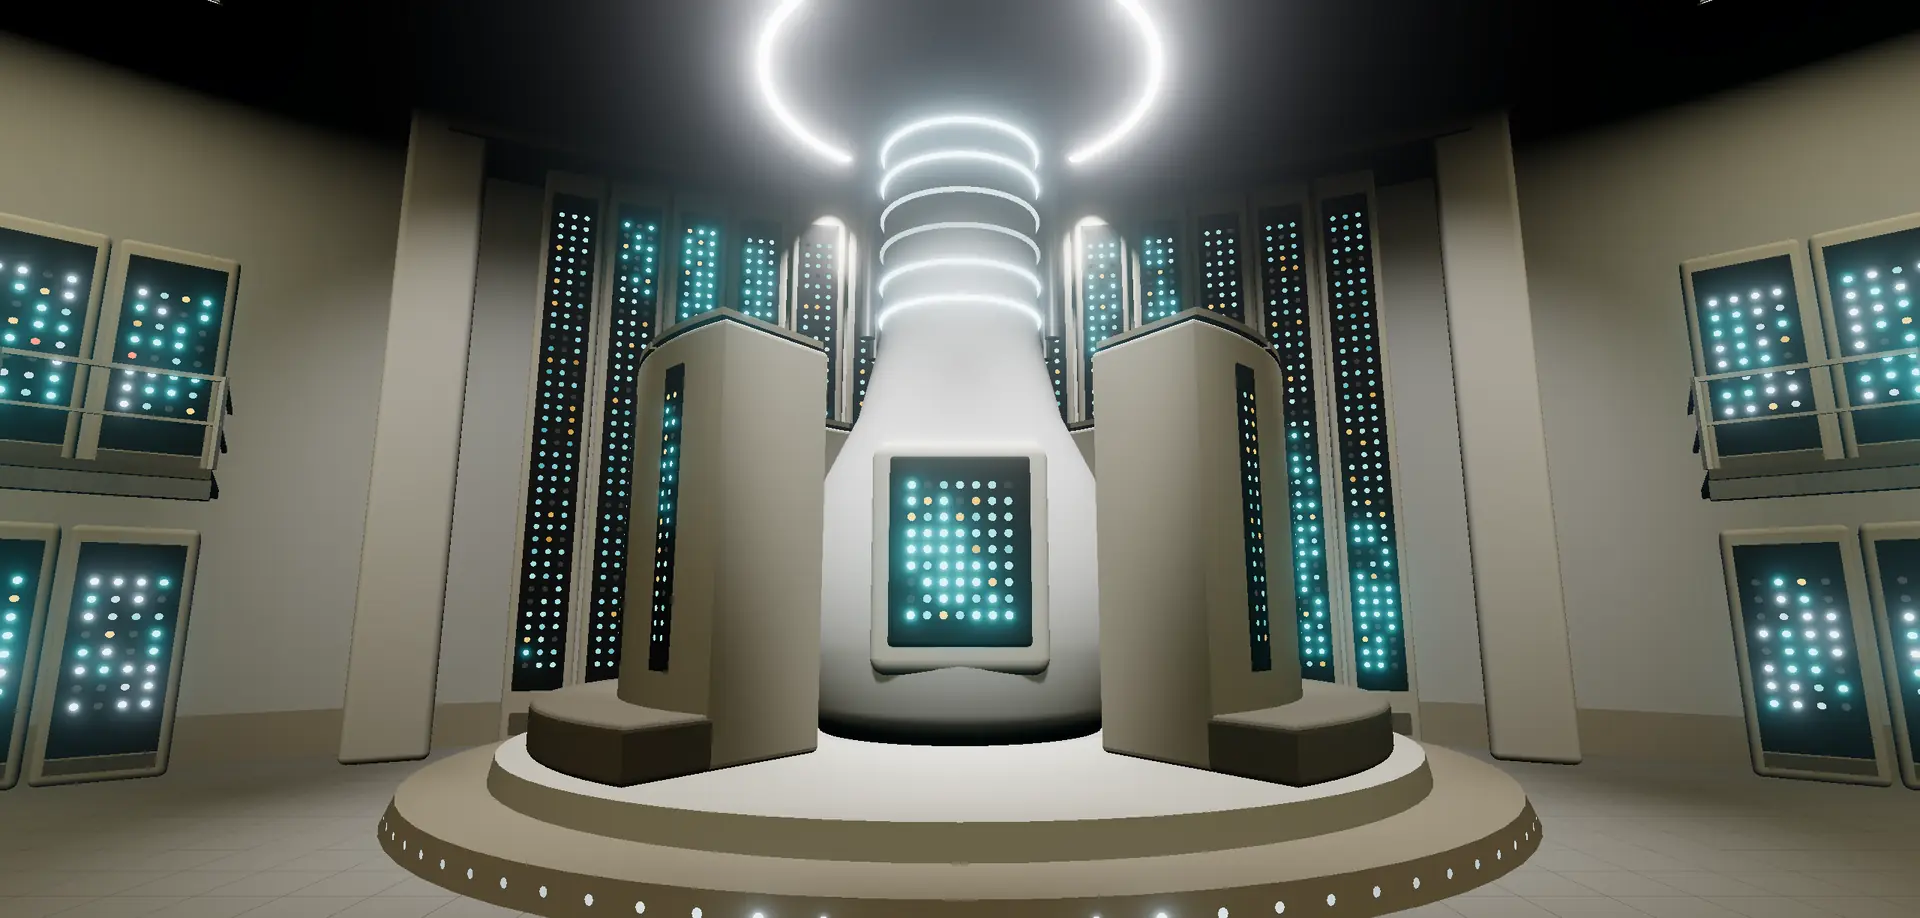
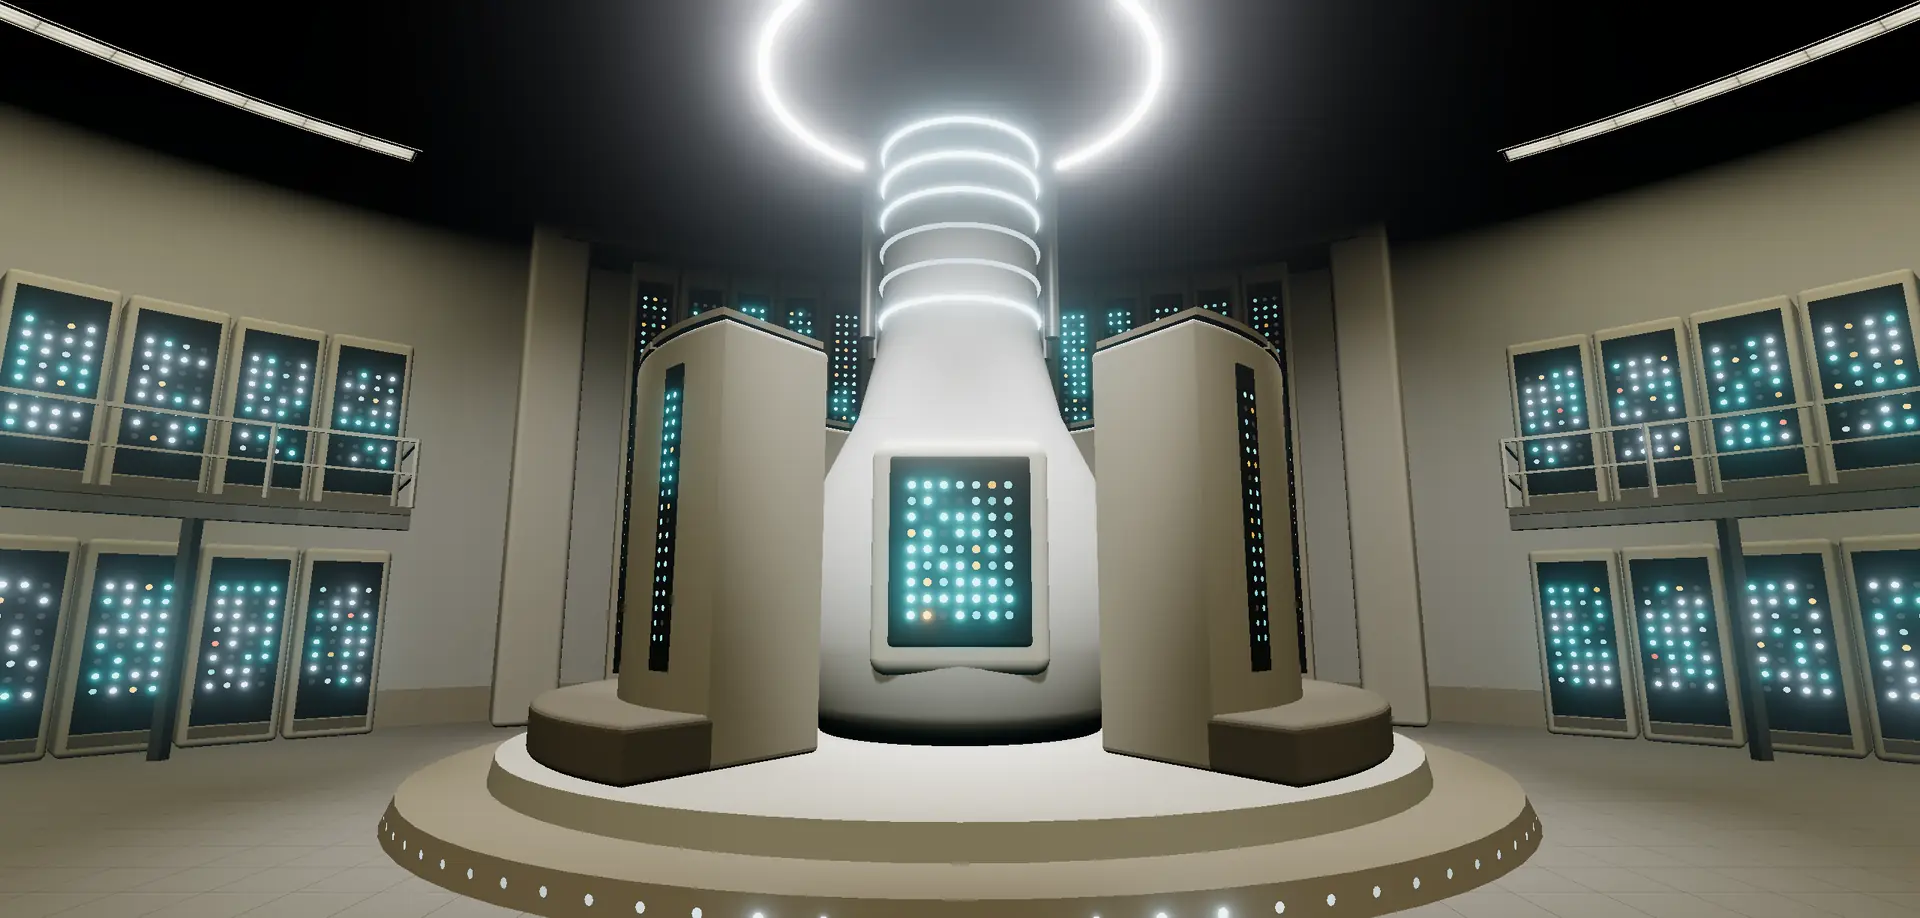
Supercomputer moved forward off the wall towers, dead lenses dark until powered, even command panel grids, rounded mouse pad, detailed mouse, recaptured welcome stills

diff --git a/src/scene/mouse.js b/src/scene/mouse.js
@@ -1,6 +1,8 @@
 // Desk mouse: a late-1980s two-button mouse in the spirit of the one IBM paired with the
 // Model M era (boxy, pale gray, top sloping down toward the hand, two front buttons split
-// by a groove, cable leaving from the front). Unbranded and original. It sits on a dark pad.
+// by a groove, cable leaving from the front). Original; detailed to match the keyboard: separate
+// button caps, a darker lower shell with a parting line and feet, side
+// grip grooves, a ribbed strain relief and a small LAMPLIGHT badge. It sits on a rounded dark pad.
 // Local frame: +z toward the user, y up, origin on the desk surface under the mouse center.
 import * as THREE from 'three';
 import { Builder } from './builder.js';
@@ -11,48 +13,131 @@ const H_FRONT = 0.034, H_BACK = 0.022;
 /** Height of the body's top surface at local z (front is -L/2). */
 const topAt = (z) => H_FRONT + (H_BACK - H_FRONT) * ((z + L / 2) / L);
 
+/** Rounded rectangle in the XY plane (centered), for plan-view outlines (base skirt, pad). */
+function roundedRect(w, d, r) {
+  const sh = new THREE.Shape();
+  const x0 = -w / 2, x1 = w / 2, y0 = -d / 2, y1 = d / 2;
+  sh.moveTo(x0 + r, y0);
+  sh.lineTo(x1 - r, y0); sh.quadraticCurveTo(x1, y0, x1, y0 + r);
+  sh.lineTo(x1, y1 - r); sh.quadraticCurveTo(x1, y1, x1 - r, y1);
+  sh.lineTo(x0 + r, y1); sh.quadraticCurveTo(x0, y1, x0, y1 - r);
+  sh.lineTo(x0, y0 + r); sh.quadraticCurveTo(x0, y0, x0 + r, y0);
+  return sh;
+}
+
+/** A flat rounded slab lying on the desk: plan w × d, corner radius r, height h, softly beveled top edge. */
+function plate(w, d, r, h, bevel) {
+  const g = new THREE.ExtrudeGeometry(roundedRect(w - 2 * bevel, d - 2 * bevel, Math.max(0.001, r - bevel)), {
+    depth: h - bevel, bevelEnabled: true, bevelThickness: bevel, bevelSize: bevel, bevelSegments: 3, curveSegments: 10,
+  });
+  g.rotateX(-Math.PI / 2); // shape XY -> world XZ, extrusion -> +y
+  return g;
+}
+
+let badgeMat = null;
+/** Small oval maker's badge on the palm rest (the site's own LAMPLIGHT mark, like the keyboard's printed legends). */
+function badgeMaterial() {
+  if (badgeMat) return badgeMat;
+  const c = document.createElement('canvas');
+  c.width = 256;
+  c.height = 96;
+  const g = c.getContext('2d');
+  g.fillStyle = '#8b8273';
+  g.beginPath();
+  g.roundRect(4, 4, 248, 88, 44);
+  g.fill();
+  g.strokeStyle = '#c9c2b4';
+  g.lineWidth = 4;
+  g.beginPath();
+  g.roundRect(12, 12, 232, 72, 36);
+  g.stroke();
+  g.fillStyle = '#efe9dc';
+  g.font = 'bold 40px Tahoma, Verdana, sans-serif';
+  g.textAlign = 'center';
+  g.textBaseline = 'middle';
+  g.fillText('LAMPLIGHT', 128, 50);
+  const t = new THREE.CanvasTexture(c);
+  t.colorSpace = THREE.SRGBColorSpace;
+  t.anisotropy = 8;
+  badgeMat = new THREE.MeshStandardMaterial({ map: t, roughness: 0.55, metalness: 0, transparent: true, alphaTest: 0.05 });
+  return badgeMat;
+}
+
 export function buildMouse(m) {
   const b = new Builder();
+  const BEV = 0.005; // the body's bevel: its outline is this much bigger than the profile/extrusion
 
-  // Body: side profile (shape x = local z, shape y = height), extruded across the width.
+  // Upper shell: side profile (shape x = local z, shape y = height), extruded across the width.
   const s = new THREE.Shape();
   const r = 0.016; // rounded back
   s.moveTo(-L / 2, 0);
-  s.lineTo(L / 2 - r, 0);
-  s.quadraticCurveTo(L / 2, 0, L / 2, r * 0.8);
+  s.lineTo(L / 2, 0); // square at the bottom: the lower shell (skirt) forms the base
   s.lineTo(L / 2, H_BACK - r * 0.5);
   s.quadraticCurveTo(L / 2, H_BACK, L / 2 - r, H_BACK);
   s.lineTo(-L / 2 + 0.008, H_FRONT);
   s.quadraticCurveTo(-L / 2, H_FRONT, -L / 2, H_FRONT - 0.008);
   s.closePath();
   const body = new THREE.ExtrudeGeometry(s, {
-    depth: Wd - 0.012, bevelEnabled: true, bevelThickness: 0.006, bevelSize: 0.005, bevelSegments: 4, curveSegments: 10,
+    depth: Wd - 2 * BEV - 0.002, bevelEnabled: true, bevelThickness: BEV + 0.001, bevelSize: BEV, bevelSegments: 6, curveSegments: 16,
   });
-  body.translate(0, 0, -(Wd - 0.012) / 2);
+  body.translate(0, 0, -(Wd - 2 * BEV - 0.002) / 2);
   body.rotateY(-Math.PI / 2); // shape x -> world z; extrusion -> world x (now centered)
   b.add(body, m.mouseBody);
 
-  // Two buttons on the front of the top, following its slope, with a dark groove between.
+  // Lower shell: a darker skirt a hair wider than the body, so the parting line shows all the way round.
+  const skirtW = Wd + 0.0016, skirtL = L + 2 * BEV + 0.0016;
+  b.add(plate(skirtW, skirtL, 0.008, 0.0062, 0.0012), m.mouseBase, [0, -0.0004, 0]);
+
+  // Two button caps on the front of the top, following its slope: separate pieces with a hairline gap,
+  // a dark split between them and a seam where they end. Their front edges just reach the rounded front.
   const slope = Math.atan2(H_FRONT - H_BACK, L);
-  const bz = -L / 2 + 0.024;
+  const top = (z) => topAt(z) + BEV; // the real top surface (the bevel grows the profile outward)
+  const bz = -L / 2 + 0.025;
+  const capW = Wd / 2 - 0.0075, capL = 0.046;
   for (const sx of [-1, 1]) {
-    b.rbox(m.mouseButton, Wd / 2 - 0.006, 0.005, 0.042, 0.002, sx * (Wd / 4 - 0.0005), topAt(bz) + 0.0045, bz, [slope, 0, 0], 2);
+    const cx = sx * (capW / 2 + 0.0012);
+    b.rbox(m.mouseButton, capW, 0.0032, capL, 0.0014, cx, top(bz) + 0.0009, bz, [slope, 0, 0], 3);
   }
-  b.box(m.grille, 0.0025, 0.004, 0.044, 0, topAt(bz) + 0.004, bz, [slope, 0, 0]);
-  // Seam where the buttons end.
-  b.box(m.grille, Wd - 0.01, 0.003, 0.0018, 0, topAt(bz + 0.022) + 0.0045, bz + 0.0215, [slope, 0, 0]);
+  b.box(m.grille, 0.0016, 0.0035, capL + 0.001, 0, top(bz) + 0.0004, bz, [slope, 0, 0]);
+  b.box(m.grille, Wd - 0.012, 0.0026, 0.0012, 0, top(bz + capL / 2) + 0.0002, bz + capL / 2 + 0.0008, [slope, 0, 0]);
+
+  // Thumb and finger grip grooves along both sides.
+  for (const sx of [-1, 1]) {
+    for (let i = 0; i < 4; i++) {
+      b.box(m.grille, 0.0008, 0.0009, 0.044, sx * (Wd / 2 + 0.0001), 0.0105 + i * 0.0028, 0.012);
+    }
+  }
+
+  // Cable strain relief: a tapered, ribbed boot where the cord leaves the front.
+  const bootL = 0.014, bootZ = -L / 2 - BEV - bootL / 2 + 0.001, bootY = 0.0115;
+  const boot = new THREE.CylinderGeometry(0.0026, 0.0039, bootL, 18);
+  boot.rotateX(-Math.PI / 2); // narrow end toward -z (away from the mouse)
+  b.add(boot, m.mouseBase, [0, bootY, bootZ]);
+  for (let i = 0; i < 3; i++) {
+    const k = (i + 0.5) / 3;
+    const rr = 0.0039 + (0.0026 - 0.0039) * k;
+    b.add(new THREE.TorusGeometry(rr + 0.0003, 0.00055, 6, 20), m.mouseBase, [0, bootY, bootZ + bootL / 2 - k * bootL]);
+  }
+
+  // Maker's badge on the palm rest, following the slope.
+  const badgeZ = 0.03;
+  b.add(new THREE.PlaneGeometry(0.026, 0.0098), badgeMaterial(), [0, top(badgeZ) + 0.0003, badgeZ], [-Math.PI / 2 + slope, 0, 0]);
 
   const group = b.build({ name: 'mouse', castShadow: true, receiveShadow: true });
   return group;
 }
+
+/** Where the cord leaves the strain relief, in the mouse's local frame. */
+export const MOUSE_CORD_START = new THREE.Vector3(0, 0.0115, -L / 2 - 0.005 - 0.014);
 
 /** Mouse pad, cable grommet and cable, built in desk coordinates. */
 export function buildMouseSetup(m, { x, z, top, yaw = 0.12, deskBackZ }) {
   const group = new THREE.Group();
   group.name = 'mouseSetup';
 
+  // Pad: rounded corners and a soft top edge (user request), like a cloth-topped rubber pad.
   const pb = new Builder();
-  pb.rbox(m.mousePad, 0.25, 0.003, 0.21, 0.0014, x + 0.005, top + 0.0015, z);
+  pb.add(plate(0.25, 0.21, 0.024, 0.003, 0.0011), m.mousePad, [x + 0.005, top, z]);
   group.add(pb.build({ name: 'mousePad', receiveShadow: true }));
 
   const mouse = buildMouse(m);
@@ -69,7 +154,7 @@ export function buildMouseSetup(m, { x, z, top, yaw = 0.12, deskBackZ }) {
   group.add(gb.build({ name: 'cableGrommet', receiveShadow: true }));
 
   // Cable: a short, tidy run from the mouse front straight into the grommet.
-  const front = new THREE.Vector3(0, 0.012, -L / 2 - 0.004).applyAxisAngle(new THREE.Vector3(0, 1, 0), yaw)
+  const front = MOUSE_CORD_START.clone().applyAxisAngle(new THREE.Vector3(0, 1, 0), yaw)
     .add(new THREE.Vector3(x, top + 0.003, z));
   const y = top + 0.003;
   const pts = [

diff --git a/src/scene/leds.js b/src/scene/leds.js
@@ -10,7 +10,8 @@ const _p = new THREE.Vector3();
 const _s = new THREE.Vector3();
 const _z = new THREE.Vector3(0, 0, 1);
 const _c = new THREE.Color();
-// A dead (never lit) indicator still shows its smoky lens, so a panel reads as a full, even grid.
+// A dead (never lit) indicator still shows its smoky lens once its equipment is powered (the room lights come on
+// with it), so a panel reads as a full, even grid. Before that it stays black like the rest of the dark room.
 const LENS = new THREE.Color(0.05, 0.048, 0.044);
 
 export class LedField {
@@ -82,7 +83,7 @@ export class LedField {
       _s.setScalar(it.size);
       _m.compose(_p, _q, _s);
       mesh.setMatrixAt(i, _m);
-      mesh.setColorAt(i, it.dead ? LENS : _c.setRGB(0, 0, 0));
+      mesh.setColorAt(i, _c.setRGB(0, 0, 0));
     });
     mesh.instanceColor.setUsage(THREE.DynamicDrawUsage);
     mesh.frustumCulled = false;
@@ -123,8 +124,14 @@ export class LedField {
     const col = this.mesh.instanceColor.array;
     for (let i = 0; i < this.items.length; i++) {
       const it = this.items[i];
-      if (it.dead) continue; // keeps its lens color
       const g = this.groups.get(it.group);
+      if (it.dead) {
+        const on = g.target > 0 && time - g.onAt - it.delay * g.cascade > 0 ? 1 : 0;
+        col[i * 3] = LENS.r * on;
+        col[i * 3 + 1] = LENS.g * on;
+        col[i * 3 + 2] = LENS.b * on;
+        continue;
+      }
       let k = 0;
       if (g.target > 0) {
         const t = time - g.onAt - it.delay * g.cascade;

diff --git a/src/scene/commandRoom.js b/src/scene/commandRoom.js
@@ -146,12 +146,14 @@ export function buildCommandRoom(m, leds) {
           b.add(bezelGeom, m.grille, [face, y, z], [0, rotY, 0]); // dark screen surround
           crtSlots.push({ x: face - s * BEZEL_T, y, z, s });
         } else {
-          leds.grid([face - s * 0.001, y, z], [0, 0, 1], [0, 1, 0], [-s, 0, 0], 9, 6, 0.115, 0.11, {
+          // Even 9 × 6 grid; the positions that don't light are dead indicators showing their lens (user request).
+          leds.grid([face - s * 0.001, y, z], [0, 0, 1], [0, 1, 0], [-s, 0, 0], 9, 6, 0.112, 0.112, {
             size: 0.0085,
             group: 'cmd',
             intensity: 1.7,
             color: (r) => (r < 0.6 ? PALETTE.ledWarm : r < 0.78 ? PALETTE.ledAmber : r < 0.93 ? PALETTE.ledGreen : PALETTE.ledRed),
             blink: (r) => (r < 0.55 ? 0.35 + r * 3.5 : 0),
+            dead: 'lens',
           }, 0.55);
         }
       });

diff --git a/src/scene/supercomputer.js b/src/scene/supercomputer.js
@@ -3,7 +3,7 @@
 // ring at its base. Inside the ring, a tall white bulbous core column rises to a
 // ceiling collar, wrapped by light bands and cable conduits. A dark "face" panel full
 // of lights looks out through the ring's opening toward the viewer.
-// It stands at the far end of the half-circle bay with its back half set INTO the curved wall
+// It stands at the far end of the half-circle bay in front of the curved wall
 // (user request: integrated into the wall's structure, in clear view from the desk): a section of
 // tall memory towers built into the wall behind it, framed by pilasters and a fascia, with
 // conduits from the core's ceiling collar running into it.

diff --git a/src/scene/materials.js b/src/scene/materials.js
@@ -150,6 +150,7 @@ export function createMaterials(maxAnisotropy = 4) {
   m.doorGlass = new THREE.MeshStandardMaterial({ color: 0x23302d, roughness: 0.08, transparent: true, opacity: 0.35, depthWrite: false, side: THREE.DoubleSide });
   m.mouseBody = std(0xdcd8cf, 0.45); // pale warm gray, like late-80s mice
   m.mouseButton = std(0xcfcac0, 0.4);
+  m.mouseBase = std(0xa9a397, 0.5); // the darker lower shell and strain relief
   m.mousePad = std(0x3a3a40, 0.9);
   m.cable = std(0x9c978d, 0.6);
   m.amberKey = std(0xd8893a, 0.45);

diff --git a/src/scene/layout.js b/src/scene/layout.js
@@ -31,7 +31,7 @@ export const SERVER = {
 export const DESK = { z: 1.15, top: 0.78, width: 2.8 };
 export const HATCH = { x: 0, z: 1.05, w: 1.3, d: 1.0 }; // ceiling hatch the monitor will drop from (stage 2)
 
-export const CORE = { x: 0, z: -40.5 }; // supercomputer center: 3.5 m in front of the bay's far wall, its back set into it
+export const CORE = { x: 0, z: -36.8 }; // supercomputer center: moved forward so its pedestal (r 6.1) clears the wall towers (fronts at z -43.2) by 0.3 m
 
 export const EYE_HEIGHT = 1.65;
 

diff --git a/CLAUDE.md b/CLAUDE.md
@@ -168,7 +168,7 @@ reference/            (gitignored) extracted frames, contact sheets, spectrogram
   Entrance door: 1.3 × 2.1 m octagonal panel at z 8.1 in a 1.9 × 2.42 m chamfered frame (`DOOR` in layout.js); the
   back-wall opening is only as wide as the panel. The walk starts at z 11.2 facing it, looking slightly up so the sign is in view.
 - Server room: floor y -4.5, ceiling y 9, x -16..16, z -28..-0.6. Catwalks at y -1.0.
-- Supercomputer center (0, -14). Desk center z 1.15, top 0.78. Ceiling hatch for the monitor
+- Supercomputer center: see `CORE` (0, -36.8 since round 12). Desk center z 1.15, top 0.78. Ceiling hatch for the monitor
   at (0, 3.2, 1.05), 1.3 × 1.0.
 - Walk ends at (0, 1.65, 2.55) looking ~9° down: keyboard at the bottom edge,
   monitor drop zone mid-low, supercomputer above it. Speed 1.0 m/s: duration ~9.9 s.
@@ -404,6 +404,22 @@ nearest-first (tube sounds at 100/60/40 % per row), back wash +0.3 s, fans fade 
   paletteuse Bayer dither scale 3 (16 colors lost the eyes).
 - **Desk phones removed** (user: not enough of an aesthetic addition for the effort). `scene/phones.js` was deleted;
   the last version (curved handset with earpiece/mouthpiece blocks) is in commit 96ed0b6 if they ever come back.
+
+## Change round 12 (2026-11-11): pedestal clearance, dark lenses, panel grids, mouse
+- **Supercomputer moved forward:** `CORE` z -40.5 -> **-36.8** (layout.js). Its pedestal's lower step (r 6.1) used to run
+  into the wall towers (fronts at z -43.2); now there's a 0.3 m gap and every tower stands on the floor. The room's shape
+  is unchanged. Everything keyed to CORE (cabinets, collar conduits, lights, CCTV aim, waves) follows. Welcome stills
+  were recaptured (core pose now [0,-2.6,-25.3]->[0,-0.6,-36.8], overlook target z -38).
+- **Dead lenses stay black in the dark:** they show `LENS` only once their LED group is powered (same timing as the live
+  LEDs in the cascade), so the unpowered server room no longer shows a field of grey dots through the glass.
+- **Command room status panels:** even 9 × 6 grids at 0.112 m pitch; the ~45 % of positions that don't light are dead
+  lenses (`dead: 'lens'`), visible because the `cmd` group is powered from the start.
+- **Mouse pad:** rounded corners (24 mm) and a soft beveled top edge (`plate()` in mouse.js, extruded rounded rect).
+- **Mouse detail** (to match the keyboard): darker lower shell (`m.mouseBase`) a hair wider than the body, so a parting
+  line runs all the way round; body bottom squared off so the skirt is the base; separate button caps on the real top
+  surface (the body's bevel puts it at `topAt(z) + BEV`) with a dark split and an end seam; four grip grooves on each
+  side; a tapered strain relief with three ribs where the cord leaves (`MOUSE_CORD_START`); a small oval LAMPLIGHT badge
+  (canvas texture) on the palm rest. Rejected on the way: button lips wrapping over the front (read as loose slabs).
 
 ## Change round 11 (2026-11-11): welcome page, editions, clock wallpaper, LED grids
 - **Welcome page** (desktops/laptops; replaces the old chooser, still `#chooser` + `showChooser()` in main.js): a slideshow
